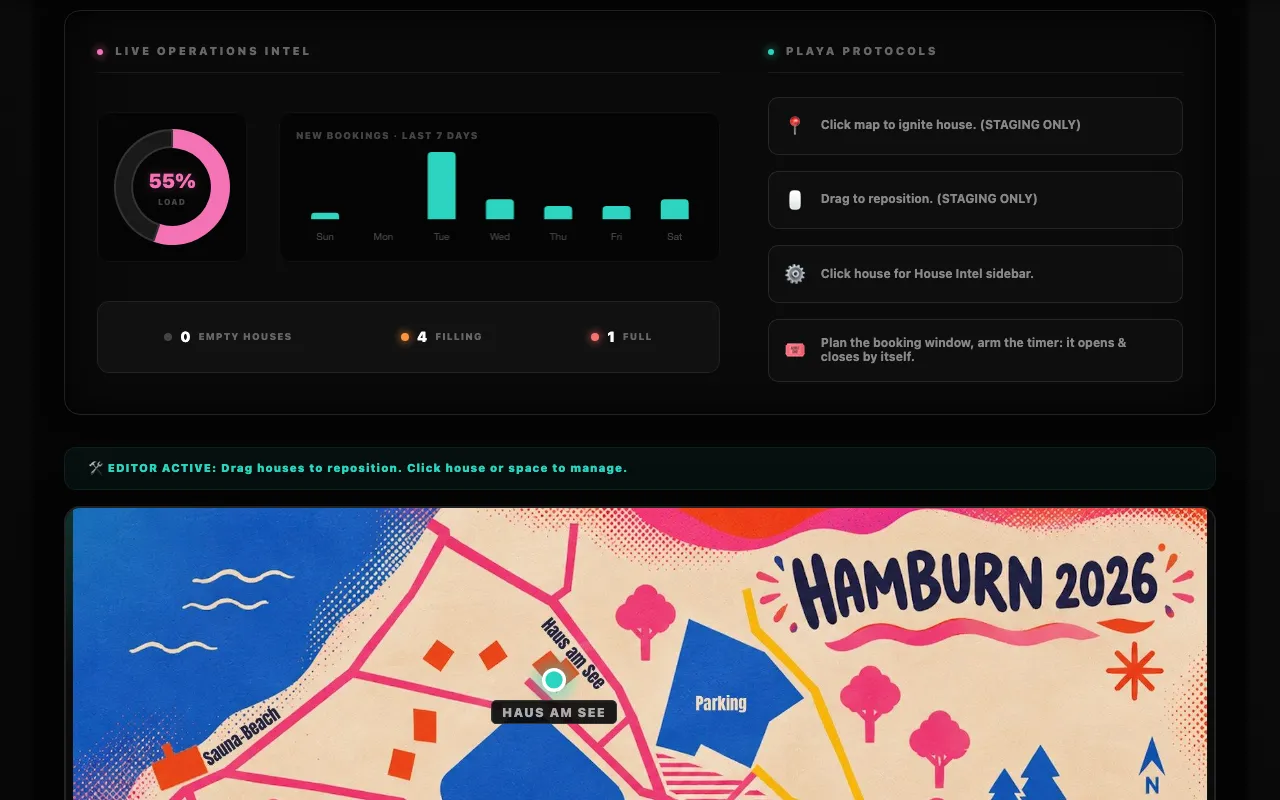
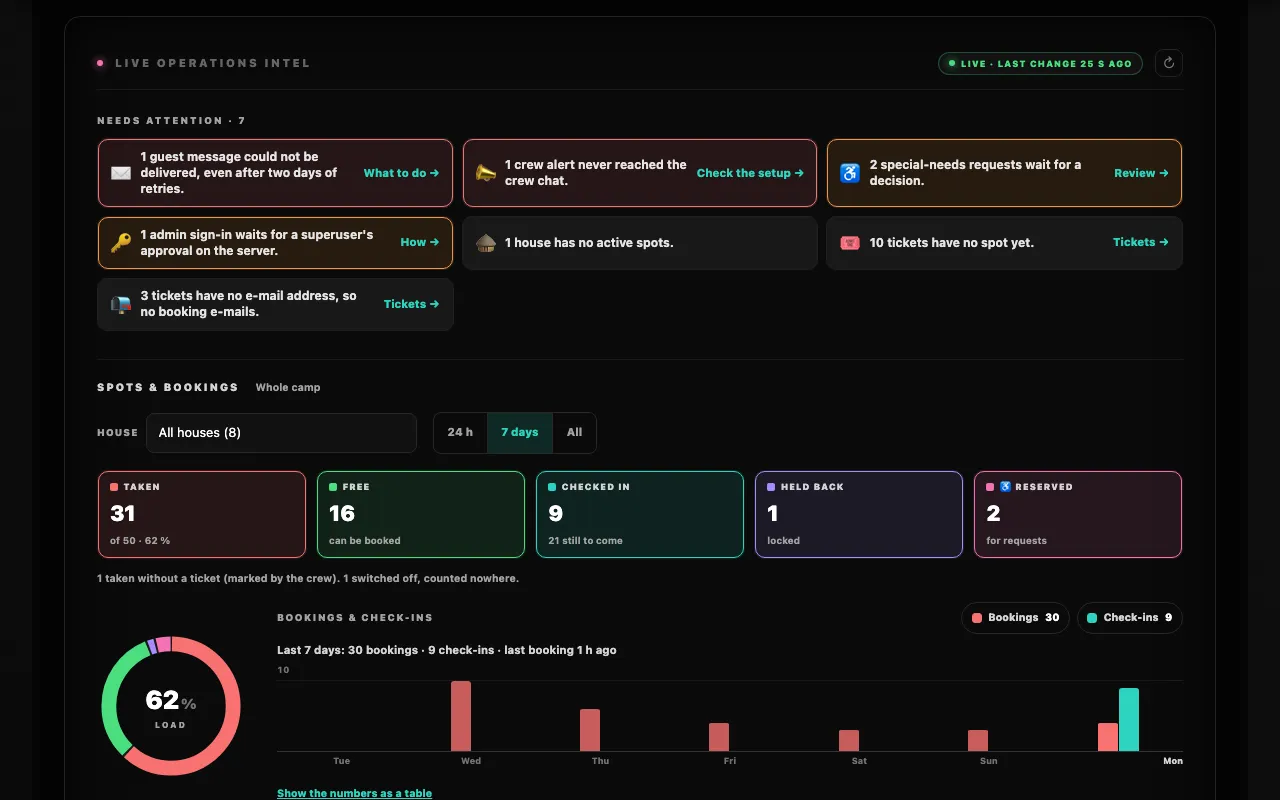
docs: the Intel panel — what needs attention, filters, houses, camp-wide counts
Admin guide: the new panel with two fresh screenshots (the old one still
showed the Chart.js panel), every attention line and when it shows, the
filters, the house table and the four cards; PLAYA PROTOCOLS is gone.
The event checklist and the check-in page point at the new tiles and
sorts. Developer docs: readOpsStats/opsSnapshot, $lib/intel.ts, the
per-house minute stamps, and a warning about class names that are
Tailwind utilities (the ring's white frame).

diff --git a/docs/admin/index.md b/docs/admin/index.md
@@ -10,7 +10,7 @@ After signing in you land in the **Control Center** at `/admin`: one page to bui
 | --- | --- |
 | <kbd>ADMIN GUIDE 📖</kbd> | Opens this documentation in a new tab, admin pages included. |
 | <kbd>TEMPLATES 💾</kbd> | Opens the **Burn Template Manager** to export the camp layout, or compare a layout file with the camp and take over what you pick. See [Layout templates](./templates). |
-| <kbd>SHOW INTEL 📊</kbd> | Shows or hides the statistics panel. |
+| <kbd>SHOW INTEL 📊</kbd> | Shows or hides the [Intel panel](#intel-panel-the-live-picture): what needs the crew, bookings and check-ins, every house, tickets and messages — live, filterable by house and time. |
 | <kbd>🛰 LIST VIEW</kbd> / <kbd>🗺 MAP VIEW</kbd> | Switches between the map editor and house cards. |
 
 The top bar on every admin page shows <kbd>🎟 Tickets</kbd> (find a ticket, change its e-mail address, load the ticket list; see [Tickets & e-mail addresses](./tickets)), <kbd>♿ Special needs</kbd> with the number of requests waiting for a decision (see [Special-needs requests](./special-needs)), <kbd>🎫 Check-in</kbd> (check guests in with their booking pass; see [Booking passes & check-in](./passes)), <kbd>✉ Messages</kbd> (every text guests get, see [Message texts](./notifications#message-texts)), the account you're signed in with (not on phones), a **SUPERUSER ⚡** badge if you are one, and <kbd>Eject 🚀</kbd> to sign out. While a countdown runs, a slim bar above it shows when booking opens or closes, the same one guests see.
@@ -33,19 +33,78 @@ Below it, the row **♿ Special-needs requests: OPEN** (or **CLOSED**, with *· 
 
 ## Intel panel: the live picture
 
-![Intel panel with occupancy and booking trend](../assets/screenshots/admin-intel.webp)
+The operations view of the whole camp. Like everything under `/admin` it is
+only there for approved admins: a Google sign-in that still waits for approval
+sees nothing of it, and neither does anybody without a session. Only numbers
+leave the server for it — no guest names, no e-mail addresses, no request texts.
+
+![Intel panel: what needs attention, the spot tiles, the ring and the bookings chart](../assets/screenshots/admin-intel.webp)
 
 The panel updates itself. You don't need to reload the page to watch booking
 come in: the numbers, the house cards and the map pins follow along every few
 seconds, on their own.
 
+### Needs attention
+
+The first block lists what somebody on the crew should act on, most urgent
+first, and says *All clear* when nothing is. Red is what went wrong, orange what
+waits for someone, grey what is worth knowing. A line only appears while it is
+true:
+
+| Line | When | Link |
+| --- | --- | --- |
+| ✉ *… guest messages could not be delivered* | A booking message still failed after two days of retries. | [Notifications](./notifications) |
+| 📣 *… crew alerts never reached the crew chat* | The crew chat refused an alert five times. | [Notifications](./notifications) |
+| ♿ *… special-needs requests wait for a decision* | Requests are waiting. | *Special needs* |
+| 🔑 *… admin sign-ins wait for a superuser's approval* | Somebody signed in with Google without an invite. | [Admin access](./access) |
+| 🎟 *… tickets have no spot, and booking is closed* | After booking closed: guests with a ticket but no spot. | *Tickets* |
+| ⏳ *… guest messages are being retried* | A delivery failed and waits for its next try. | [Notifications](./notifications) |
+| 🛖 *… houses have no active spots* | Houses without spots (orange in Staging, where they can still be fixed). | – |
+| 🎟 *… tickets have no spot yet* | During Live Booking: guests who still have to book. | *Tickets* |
+| 📭 *… tickets have no e-mail address* | E-mail to guests is on, until booking closes. | *Tickets* |
+| 🚪 *… booked guests are not checked in yet* | After booking closed, once the first guest was checked in. | *Check-in* |
+
+### Spots & bookings
+
+Everything in this block follows the two filters above it: **House** (*All
+houses* or one of them) and the chart's time range — <kbd>24 h</kbd> (one bar
+per hour), <kbd>7 days</kbd> (one per day, where it starts) or <kbd>All</kbd>
+(every day since the first booking, every week once that would be more than 45
+days). Picking a house in the house table does the same as the House filter;
+<kbd>✕ Whole camp</kbd> goes back.
+
 | Widget | Shows |
 | --- | --- |
-| **LOAD** | The ring: how the active spots are split between taken, free, held back 🔒 and reserved ♿. The number in the middle is the share that is taken. The four slices always add up to the spots that exist. |
-| **TAKEN · FREE · CHECKED IN · HELD BACK** | The same four numbers to read off, each in its own colour. *Checked in* counts guests the crew checked in at arrival, and is part of *taken*. |
-| **New bookings · last 7 days** | Spots booked per day over the last week, by the day the spot got its ticket (event time). Today's bar is highlighted. A released spot drops out; a moved booking counts on the day of the move. |
-| **Empty houses · Filling · Full · Not set up** | How many houses have no bookings yet, some bookings, no free spot left, or no spots at all. |
-| **PLAYA PROTOCOLS** | Quick reminders of the editor gestures below. |
+| **TAKEN · FREE · CHECKED IN · HELD BACK · ♿ RESERVED** | The spots in each state. *Taken* adds of how many and the share, *Checked in* how many booked guests are still to come. Click a tile to sort the house table by it; click it again for the names. A line below counts spots marked as taken without a ticket and switched-off spots, when there are any. |
+| **LOAD** | The ring: how the active spots are split between taken, free, held back 🔒 and reserved ♿; the slices always add up to the spots that exist. The number in the middle is the share that is taken. Point at a slice to read its number, click it to sort the houses like its tile. |
+| **Bookings & check-ins** | Bookings (the moment a spot got its ticket, event time) and check-ins per hour or per day. The line above the bars sums up the range and says when the last booking came in; point at a bar, or tab to the chart and use <kbd>←</kbd> <kbd>→</kbd>, to read that hour or day. The two buttons switch a series off and on. <kbd>Show the numbers as a table</kbd> lists every bar. A released spot drops out; a moved booking counts at the moment of the move. |
+
+### Houses
+
+![The house table sorted by free spots, and the camp-wide cards below it](../assets/screenshots/admin-intel-houses.webp)
+
+One row per house: its state, *taken / spots* with a bar in its state colour,
+free spots, *checked in / booked*, held back 🔒 and ♿ reserved spots, and
+<kbd>Rooms →</kbd> to its house page. *Find a house* searches the names (ü is u),
+the chips show only empty, filling, full or not set up houses, and **Sort** puts
+the fullest, the most free spots, the most guests still to check in, the most
+held back or the most ♿ spots first. Click a house's name to narrow the numbers
+above to it, click it again for the whole camp. Ten houses show at first,
+<kbd>Show all</kbd> lists the rest; on a phone every house is a small card.
+
+### Tickets, messages & crew
+
+Counts for the whole camp — the House filter doesn't touch them:
+
+| Card | Counts |
+| --- | --- |
+| 🎟 **Tickets** | Loaded, with a spot, without a spot, with an e-mail address, Telegram linked. |
+| ✉ **Guest messages** | Whether e-mail and the Telegram bot are on; guests e-mailed; messages waiting to go out, being retried, failed for good. |
+| ♿ **Special-needs requests** | Waiting for a decision, approved, declined. |
+| 👥 **Crew** | Admins, sign-ins waiting for approval, crew alerts waiting and failed. |
+
+A number the server could not read right now shows as —; the rest of the panel
+still works.
 
 ### Are these numbers current?
 

diff --git a/docs/develop/states.md b/docs/develop/states.md
@@ -176,24 +176,45 @@ The browser never talks to PocketBase (see `$lib/server/pocketbase.ts`), so
 there is no socket to subscribe to. The control center polls instead.
 
 ```
-+page.server.ts ─┐                          ┌─ deriveLiveStats()  (pure)
-                 ├─ $lib/server/stats.ts ───┤
-/admin/api/stats ┘                          └─ liveStatsSnapshot() (cached)
++page.server.ts ─┐                          ┌─ deriveLiveStats()   (pure: houses, rooms, beds)
+                 ├─ $lib/server/stats.ts ───┼─ readOpsStats()     (counts: tickets, messages, requests, crew)
+/admin/api/stats ┘                          └─ liveStatsSnapshot() (cached, one ETag over both)
+                                                        │
+                                   $lib/intel.ts ◄──────┘ filters, time buckets, house table, attention list
+                                   (in the browser)
 ```
 
-- **`deriveLiveStats(houses, rooms, beds)`** is pure and does the counting. The
-  page load and the endpoint both call it, so the first paint and every poll
-  afterwards agree.
-- **`liveStatsSnapshot(pb)`** caches for `SNAPSHOT_TTL_MS` (3 s) and
-  single-flights concurrent callers: ten open dashboards are one PocketBase
-  read. `changedAt` and the ETag only move when a number actually changes.
-- **`GET /admin/api/stats`** is admin-only (`hooks.server.ts` already refuses
-  everything under `/admin/api/` without a session) and answers `304` while the
-  ETag matches. `cache-control: no-store, private`.
+- **`deriveLiveStats(houses, rooms, beds)`** is pure and does the spot
+  counting. The page load and the endpoint both call it, so the first paint and
+  every poll afterwards agree. Per house it also hands out `bookedAt` and
+  `checkedInAt`: the minute (since the epoch, UTC) of every current booking and
+  check-in, so the browser can bucket them by any range without asking again.
+- **`readOpsStats(pb)`** counts what belongs to no house — tickets (with an
+  address, with Telegram), guest messages queued / retrying / given up
+  (`guest_notify.due` and `attempts`, the states `pb_hooks/lib/notify.js`
+  leaves behind), special-needs requests by status, admins and access requests,
+  crew alerts by `alert_status`. One small `getList(1, 1)` per count; each may
+  fail on its own and then reads as `null` (shown as —), it never throws.
+  **`opsSnapshot(pb)`** caches that for `OPS_TTL_MS` (10 s).
+- **`liveStatsSnapshot(pb)`** caches the whole answer for `SNAPSHOT_TTL_MS`
+  (3 s) and single-flights concurrent callers: ten open dashboards are one
+  PocketBase read. `changedAt` and the ETag only move when a number actually
+  changes.
+- **`GET /admin/api/stats`** is for approved admins only (`hooks.server.ts`
+  already refuses everything under `/admin/api/` without an admin session, a
+  pending access request included; the endpoint checks again) and answers `304`
+  while the ETag matches. `cache-control: no-store, private`. Only counts,
+  house names and minutes travel — no guest names, addresses or ticket codes.
 - **`createLivePoll()`** (`$lib/live-stats-poll.ts`) asks every
   `POLL_INTERVAL_MS` (5 s), skips hidden tabs entirely and catches up on
   `visibilitychange`, doubles the gap after an error up to a minute, and stops
   for good on `403` (the weekly re-sign-in) instead of hammering.
+- **`$lib/intel.ts`** is everything the panel does with the answer, pure and
+  unit-tested: `scopedSpots` (whole camp or one house), `activityBuckets`
+  (24 hours, 7 days or all, by Europe/Berlin hour and calendar day — DST-safe,
+  a 23- or 25-hour day never loses or doubles a bar), `houseRows` (search,
+  state, sort), `attentionItems` (what waits for the crew, depending on the
+  phase). A filter change costs no request.
 
 The page merges the answer into the numbers only. Which houses exist, and
 where their pins stand, still comes from the page load — if that changed, the
@@ -201,21 +222,37 @@ panel offers a reload instead of drifting.
 
 ### Adding a number to the panel
 
-1. Count it in `deriveLiveStats` (or in `countSpots`, if it is a spot state).
-2. Add it to the `LiveStats` interface in `$lib/live-stats.ts` — server and
-   browser share that file, so the wire format stays honest.
-3. Show it in `IntelDashboard.svelte`, with `data-state` for its colour.
-4. Cover it in `tests/live-stats.test.ts`.
+1. Count it: a spot state in `countSpots`, anything per house in
+   `houseStats`, anything camp-wide in `readOpsStats` (a count that may fail
+   is a `Count`, `number | null`).
+2. Add it to the interfaces in `$lib/live-stats.ts` — server and browser share
+   that file, so the wire format stays honest.
+3. Show it in `IntelDashboard.svelte` or one of its parts in
+   `$lib/components/admin/intel/`, with `data-state` for its colour. If it is
+   something to act on, give it a line in `attentionItems`.
+4. Cover it in `tests/live-stats.test.ts` (counting, caching, the endpoint)
+   and `tests/intel.test.ts` (what the browser makes of it).
 
 Nothing needs to change in nginx, the compose files or the deploy script: it is
 one more field in an answer that already travels.
 
 ### Charts without a chart library
 
-`IntelDashboard.svelte` draws the occupancy ring as an inline `<svg>` circle
-with `stroke-dasharray`, and the seven day bars as divs scaled with
-`transform: scaleY()`. Both animate on the compositor. Chart.js used to cost
-49 KB brotli on `/admin` — about a third of the page — and is gone.
+`IntelDonut.svelte` draws the occupancy ring as an inline `<svg>` circle with
+`stroke-dasharray`, with 2 px of the panel's colour between the slices instead
+of a border. `IntelActivity.svelte` draws the bars as divs scaled with
+`transform: scaleY()`; the plot is one `role="slider"` tab stop, so the arrow
+keys walk the bars and a screen reader reads each one, and a table view lists
+every bar. Everything animates on the compositor. Chart.js used to cost 49 KB
+brotli on `/admin` — about a third of the page — and is gone.
+
+> [!WARNING] Class names that are Tailwind utilities
+> `layout.css` imports Tailwind, which scans every source file and emits each
+> utility it finds globally — scoped Svelte styles don't protect against that.
+> The ring used to be `<svg class="ring">` and got Tailwind's `ring` utility: a
+> 1 px box-shadow in `currentColor`, a white square frame round the chart. Give
+> own elements prefixed names (`intel-donut`, `donut-slice`), never `ring`,
+> `shadow`, `border`, `outline`, `grid`, `table`, `container`, `hidden` & co.
 
 Numbers roll with `@number-flow/svelte`, the same component the booking
 countdown uses. NumberFlow does not hydrate cleanly, so components render plain

diff --git a/docs/admin/event-checklist.md b/docs/admin/event-checklist.md
@@ -47,12 +47,12 @@ timeline
 
 - [ ] **Watch the switch.** At the opening time the panel turns 🎪 LIVE BOOKING by itself, and guests see the countdown to the closing time at the top of every page. The crew group gets *Booking is LIVE now*.
 - [ ] **Need more time?** Move the closing time in the panel (at least one day from now for admins; a superuser can do anything).
-- [ ] **Keep an eye on the Intel panel.** The LOAD chart and the house counters show how fast the camp fills up.
+- [ ] **Keep an eye on the Intel panel.** In *Show Intel*, the chart on <kbd>24 h</kbd> shows how fast bookings come in, *Needs attention* lists requests waiting for a decision and messages that failed, and the house table sorted by *Most free spots* shows where room is left. See [Intel panel](./index#intel-panel-the-live-picture).
 - [ ] **Be reachable.** Typical guest questions are answered in the [FAQ](../guide/faq).
 
 ## During the event
 
-- [ ] **Check guests in at arrival** with their booking pass: 🎫 **Check-in** in the admin header (type the code, scan with the camera or a USB scanner: a known pass is checked in right away), or the phone camera on the guest's QR code and <kbd>✅ Check in</kbd>. A checked-in guest can't release their spot anymore; a mistake is undone with <kbd>↩ Undo check-in</kbd>. *Show Intel* counts the spots checked in. See [Booking passes & check-in](./passes).
+- [ ] **Check guests in at arrival** with their booking pass: 🎫 **Check-in** in the admin header (type the code, scan with the camera or a USB scanner: a known pass is checked in right away), or the phone camera on the guest's QR code and <kbd>✅ Check in</kbd>. A checked-in guest can't release their spot anymore; a mistake is undone with <kbd>↩ Undo check-in</kbd>. *Show Intel* counts them per hour, and its house table sorted by *Most still to check in* shows where guests are still missing. See [Booking passes & check-in](./passes).
 
 - [ ] **Broken bed?** Lock it 🔒 on its room page. That works in every phase.
 - [ ] **Resist restructuring.** Houses, rooms and spots only change in 🛠 Staging, and a superuser's switch back to Staging **offers to release every guest booking** (the dialog says how many there are and how many guests are checked in; released spots lose their burner names and check-ins, it can't be undone, and those guests book again once booking is Live). Keeping them is the other button — then clear them later with 🧨 *Clear all bookings*. During the event only lock 🔒 spots, mark ♿ spots or book a spot for a special-needs request: those work in every phase. If restructuring is unavoidable, export a template first and expect to re-seat every guest by hand; they get a *spot released* e-mail — the dialog's *Don't notify the guests* box starts unticked while booking is still running, because those guests have to book again. See [After the burn](#after-the-burn).

diff --git a/docs/develop/testing.md b/docs/develop/testing.md
@@ -15,7 +15,7 @@ It needs Node, a running Docker (Docker Desktop on a Mac) and, for the layout te
 | Layer | Command | Needs | What it proves |
 | --- | --- | --- | --- |
 | Type check | `npm run check` | – | The code compiles; Svelte components and server code agree on their types. |
-| Unit | `npm test` | – | The logic in isolation, PocketBase mocked: admin sign-in flow and session handling, role checks, booking rules, encryption, rate limit, special-needs requests (with the in-memory stand-in `tests/fake-pb.ts`), and every guest message text for each mix of spot change and request news (`tests/notify-messages.test.ts`), including the message texts admins change (`tests/message-texts.test.ts`), the live numbers of the control center with their snapshot cache, ETag and poll rules (`tests/live-stats.test.ts`), how a refused form points at its fields (`tests/field-alert.test.ts`), and the guest session: dead codes, the round stamp, an unreachable PocketBase (`tests/guest-session.test.ts`). Fast (< 1 s) — run it all the time. |
+| Unit | `npm test` | – | The logic in isolation, PocketBase mocked: admin sign-in flow and session handling, role checks, booking rules, encryption, rate limit, special-needs requests (with the in-memory stand-in `tests/fake-pb.ts`), and every guest message text for each mix of spot change and request news (`tests/notify-messages.test.ts`), including the message texts admins change (`tests/message-texts.test.ts`), the live numbers of the control center with their snapshot cache, ETag and poll rules (`tests/live-stats.test.ts`) and what the Intel panel makes of them — Berlin-time buckets, filters, the house table, the attention list (`tests/intel.test.ts`), how a refused form points at its fields (`tests/field-alert.test.ts`), and the guest session: dead codes, the round stamp, an unreachable PocketBase (`tests/guest-session.test.ts`). Fast (< 1 s) — run it all the time. |
 | Integration | `npm run test:integration` | Docker | The **database**: a real, empty PocketBase applies `pb_migrations/` and loads `pb_hooks/`; then availability, schema, read/write, API rules, admin roles, booking service. |
 | Smoke | `npm run test:smoke` | Docker | The **whole app**: the same Docker image staging builds, driven over HTTP — guest login, booking, admin area protection, superuser-only actions. |
 | Layout | `npm run test:layout` (part of `verify`) | Docker, Playwright browsers | The **rendered pages**: every guest and admin page with awkward names (80-character burner names, compound words, long e-mail addresses) at every width from 320 to 1440 px, in Chromium and WebKit — no squeezed, cut-off, pushed-out or covered text. See [Layout](./layout). |

diff --git a/docs/admin/passes.md b/docs/admin/passes.md
@@ -81,7 +81,7 @@ Checked in the wrong pass? The newest result on **Check-in** has <kbd>↩ Und
 ### Where the crew sees check-ins
 
 - **Room page:** a checked-in spot shows **CHECKED IN ✅** with the time (hover for the admin), and the room counts them.
-- **House page and Control Center:** *Checked in* per room and per house, and **SPOTS CHECKED IN** in *Show Intel*.
+- **House page and Control Center:** *Checked in* per room and per house. In *Show Intel*: the **CHECKED IN** tile with how many booked guests are still to come, the check-ins per hour in the chart, and *checked in / booked* for every house.
 - **Tickets:** a checked-in ticket shows **✅ Checked in** with the time.
 
 ## Who can check guests in
